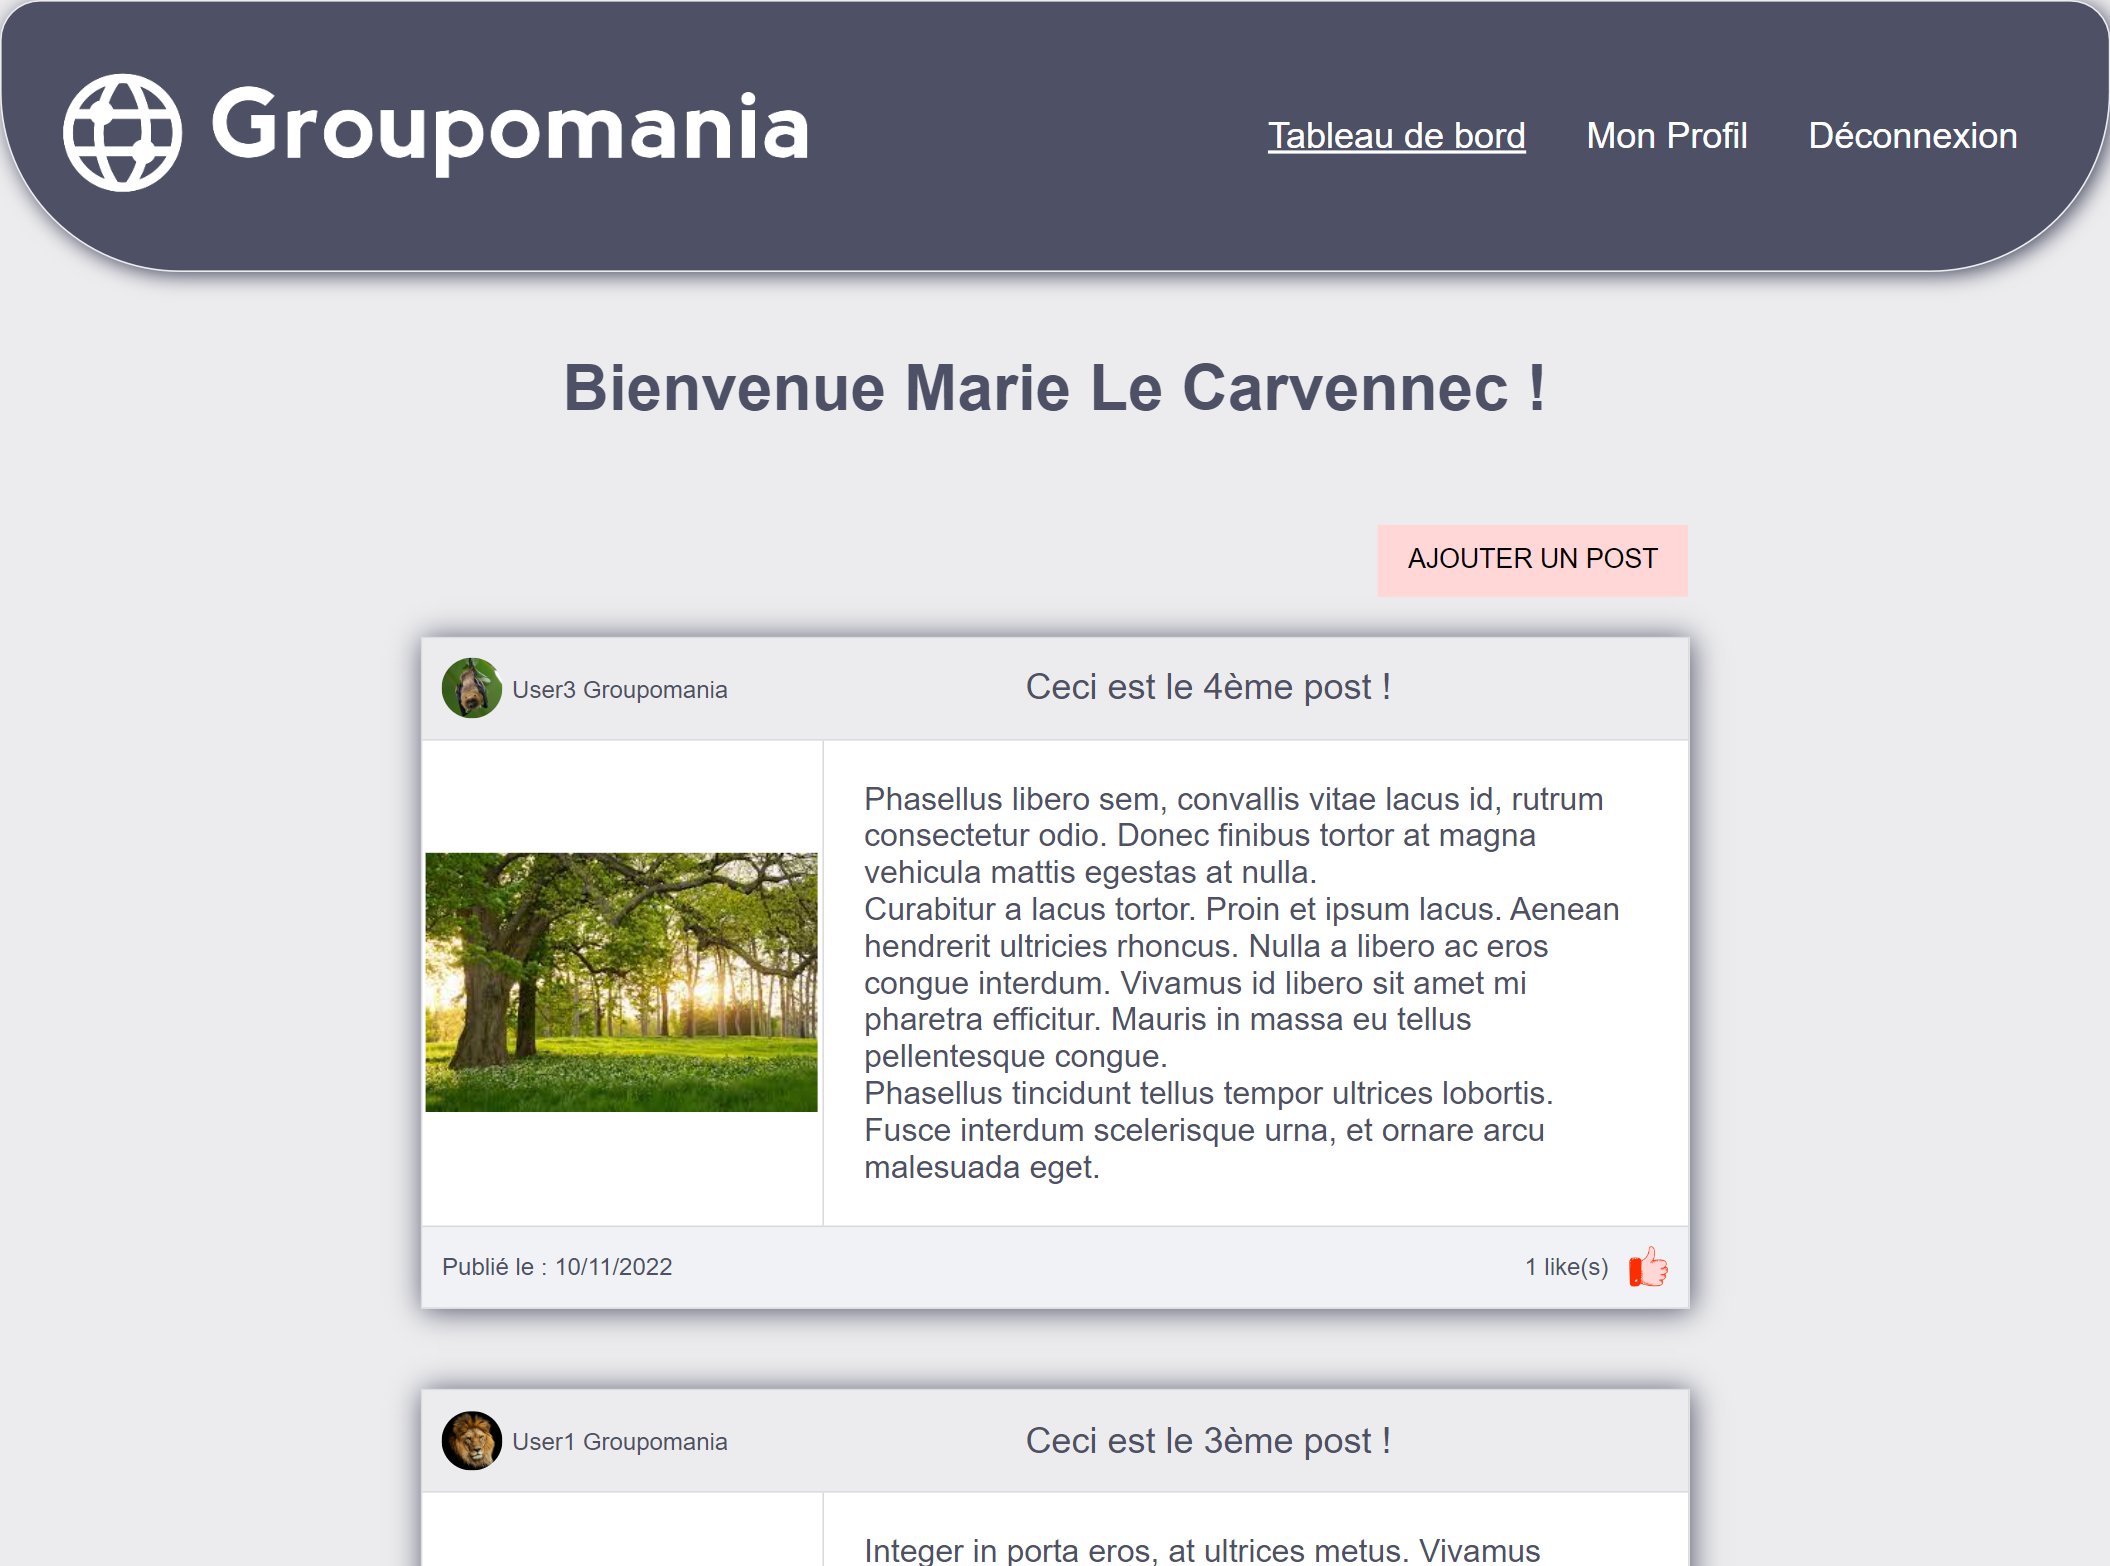
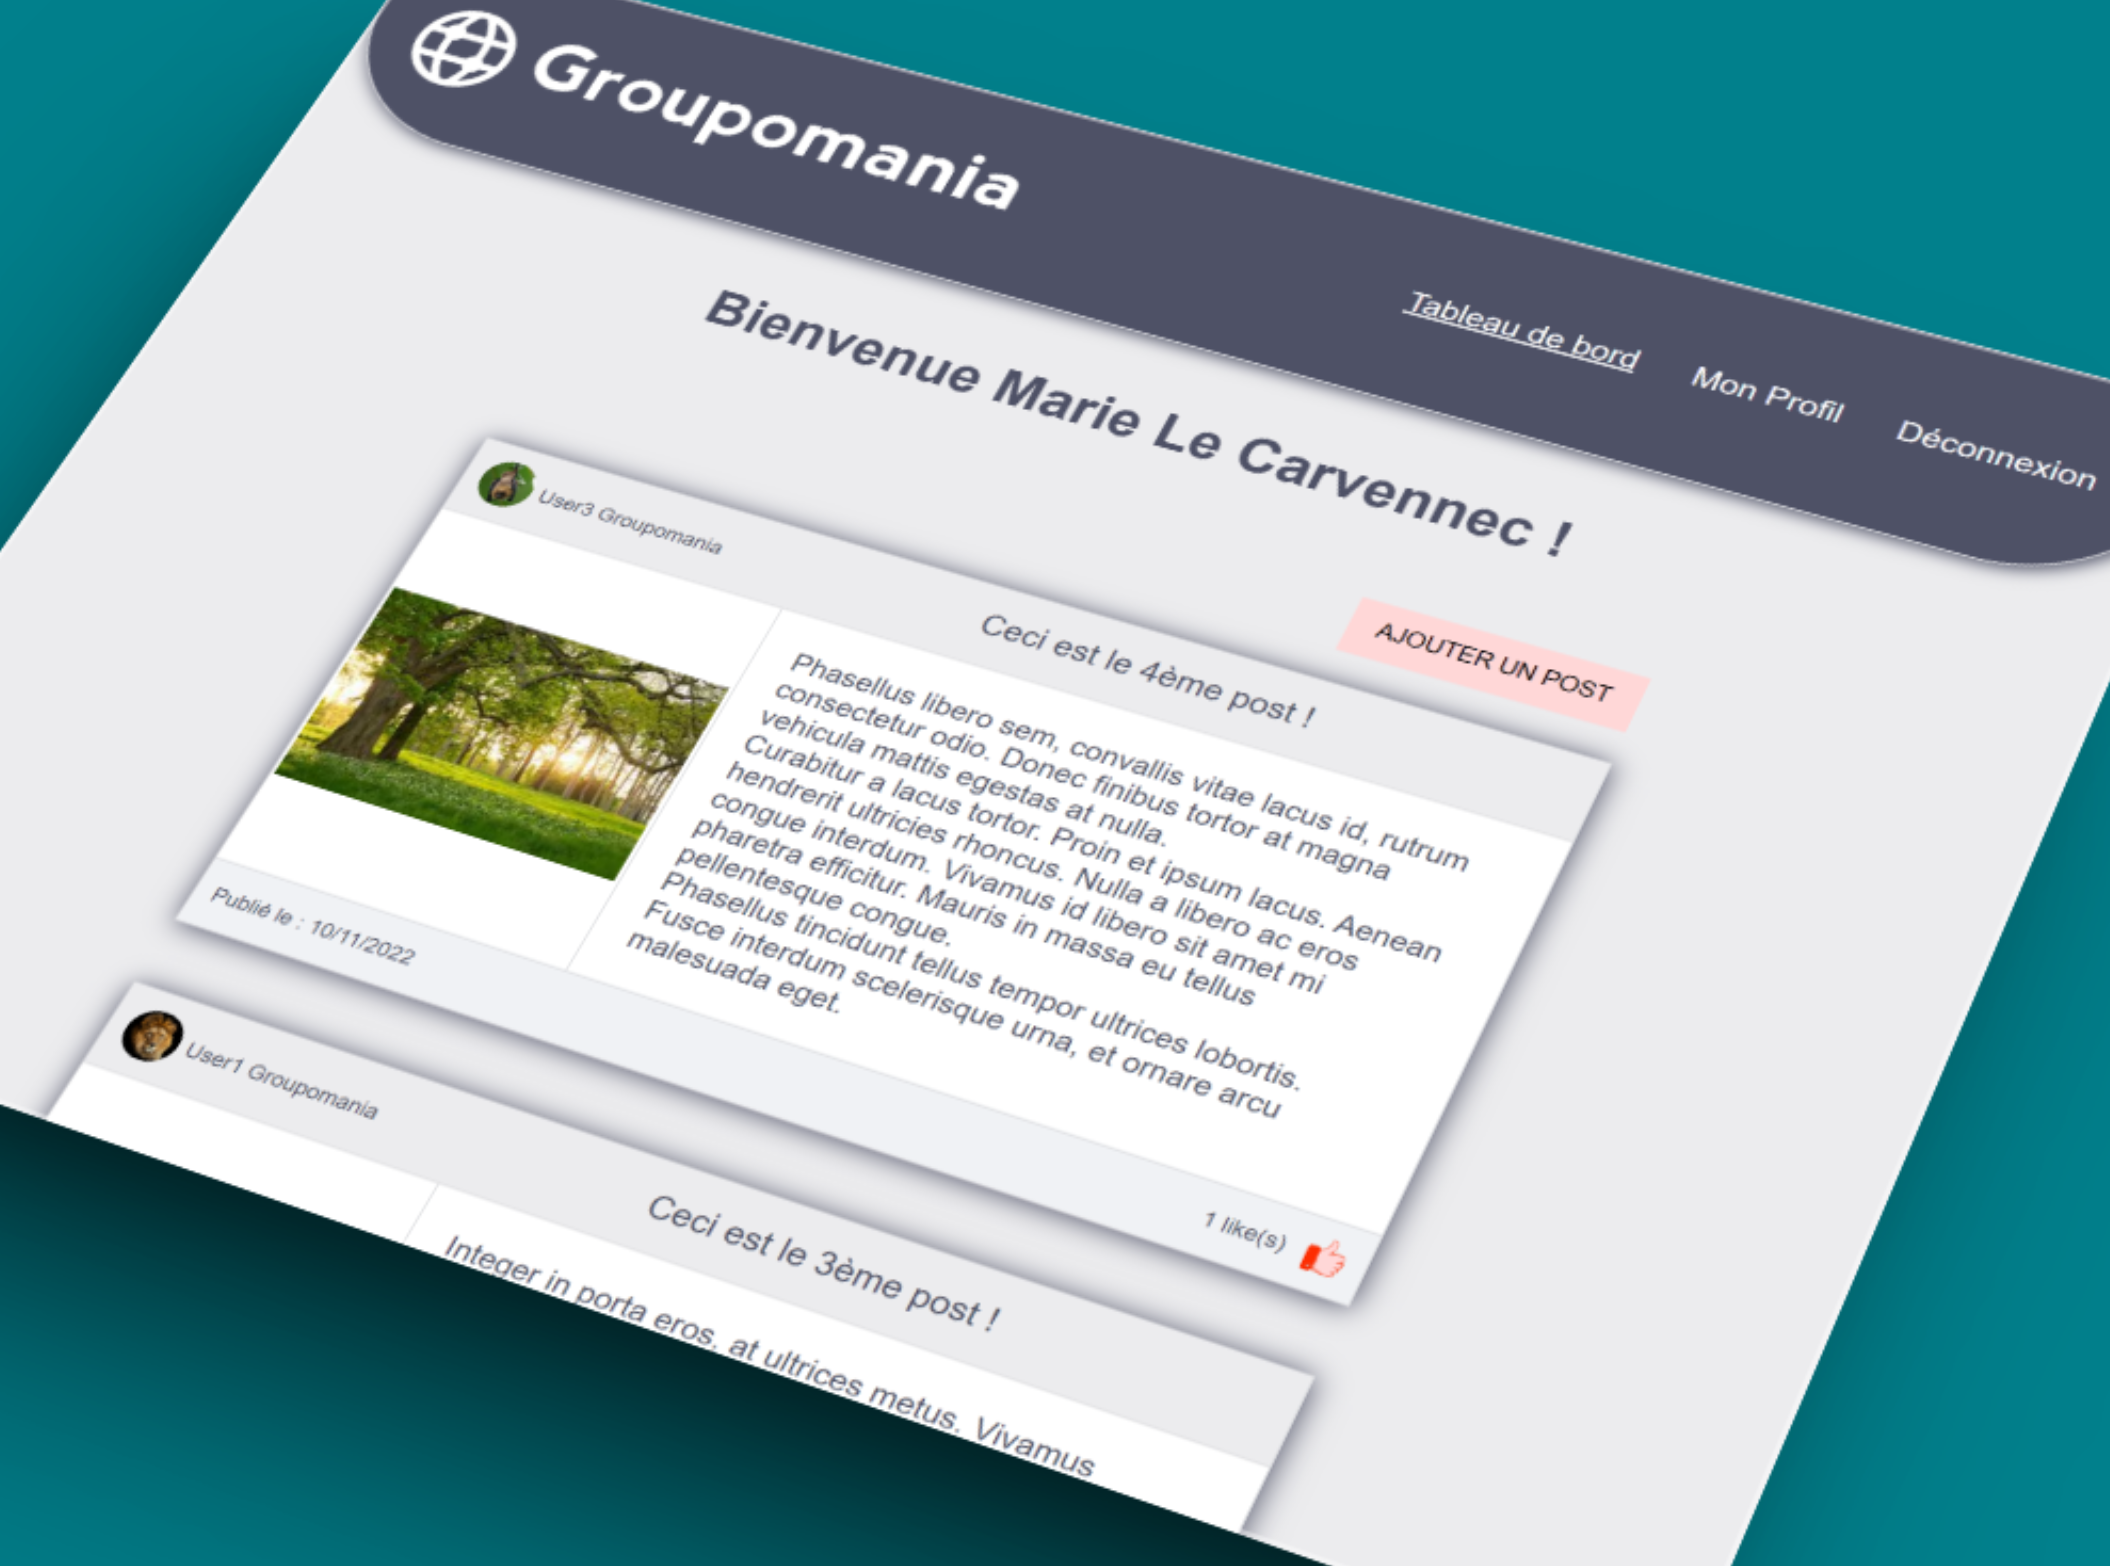
Updates project portfolio with new SaaS entry and images
Replaces the main project entry with a detailed description of a new AI-powered accessibility audit SaaS, highlighting advanced technical architecture and cloud automation. Moves the previous main project further down the list and enhances descriptions to emphasize technical achievements. Adds and updates project screenshots to reflect the latest work and visual branding.

diff --git a/app/lib/data/projects.ts b/app/lib/data/projects.ts
@@ -2,29 +2,28 @@ import type { Project } from '@/types/data';
 
 export const projects: readonly Project[] = [
   {
-    title: 'Crazee Burger - Application React Avancée',
+    title:
+      "InclusiShield | SaaS Founder & Lead Dev - Plateforme d'audit d'accessibilité automatisé par l'IA",
     description:
-      "Application React développée dans un cadre d'apprentissage orienté entreprise avec mise en situation professionnelle. Architecture avancée, gestion d'état avec Context API, composants réutilisables, hooks avancés et intégration Firebase pour l'authentification et la base de données temps réel.",
-    image: '/images/screen-crazee-burger-karvaneg.png',
-    hint: "Cliquez sur l'icône ci-dessus pour suivre l'évolution de ce projet",
+      "InclusiShield est une plateforme d’audit d’accessibilité numérique augmentée par l’intelligence artificielle, conçue pour transformer des diagnostics techniques en rapports stratégiques exploitables. J'ai développé un moteur de scan robuste s’appuyant sur les standards Axe-core et Playwright, capable de s’affranchir des contraintes de sécurité complexes comme les politiques CSP ou les certificats SSL tout en maximisant les performances en environnement Cloud. L'infrastructure repose sur une architecture orientée événement qui orchestre l’automatisation marketing via Loops et Resend, intégrant un monitoring de production en temps réel pour une fiabilité optimale. Le livrable final est assuré par un système de génération de rapports PDF « Print-Ready » offrant une hiérarchie visuelle premium et une gestion dynamique des scores de conformité.",
+    image: '/images/screen-inclusishield.png',
+    hint: null,
     technologies: [
-      'React',
-      'Firebase',
-      'Context API',
-      'React Router',
-      'Styled-components',
-      'Git/GitLab',
-      'Mirroring Git',
-      'Vercel',
-      'Agile',
+      'Next.js',
+      'TypeScript',
+      'Playwright (Browserless)',
+      'Groq AI',
+      'Redis (Upstash)',
+      'Stripe API',
+      'Tailwind CSS',
     ],
-    github: 'https://github.com/Karvaneg/crazee-burger',
-    live: 'https://crazee-burger-karvaneg-karvanegs-projects.vercel.app/',
+    github: null,
+    live: 'https://inclusishield.fr/',
   },
   {
     title: 'Karvaneg - Portfolio Professionnel',
     description:
-      "Développement complet d’un portfolio professionnel avec Next.js et TypeScript, intégrant animations fluides, interface responsive et accessibilité optimisée. Ce projet m'a permis de découvrir de nouvelles technologies et d’expérimenter le codage assisté par l’IA pour accélérer le développement et tester de nouvelles approches.",
+      "Conception et architecture d’une vitrine numérique haute performance utilisant Next.js et TypeScript. Ce projet démontre ma capacité à créer des interfaces fluides et responsives tout en respectant les standards les plus stricts d'accessibilité. J'ai optimisé le cycle de production par l'orchestration d'agents IA, une méthodologie que j'ai industrialisée pour accélérer le développement tout en garantissant une qualité de code irréprochable. ",
     image: '/images/screen-portfolio-karvaneg.png',
     hint: null,
     technologies: [
@@ -47,6 +46,26 @@ export const projects: readonly Project[] = [
     ],
     github: 'https://github.com/Karvaneg/portfolio-karvaneg',
     live: 'https://portfolio-karvaneg.vercel.app/',
+  },
+  {
+    title: 'Crazee Burger - Application React Avancée',
+    description:
+      "Application React développée dans un cadre d'apprentissage orienté entreprise avec mise en situation professionnelle. Architecture avancée, gestion d'état avec Context API, composants réutilisables, hooks avancés et intégration Firebase pour l'authentification et la base de données temps réel.",
+    image: '/images/screen-crazee-burger-karvaneg.png',
+    hint: "Cliquez sur l'icône ci-dessus pour suivre l'évolution de ce projet",
+    technologies: [
+      'React',
+      'Firebase',
+      'Context API',
+      'React Router',
+      'Styled-components',
+      'Git/GitLab',
+      'Mirroring Git',
+      'Vercel',
+      'Agile',
+    ],
+    github: 'https://github.com/Karvaneg/crazee-burger',
+    live: 'https://crazee-burger-karvaneg-karvanegs-projects.vercel.app/',
   },
   {
     title: 'CBNSA - Site Institutionnel',
